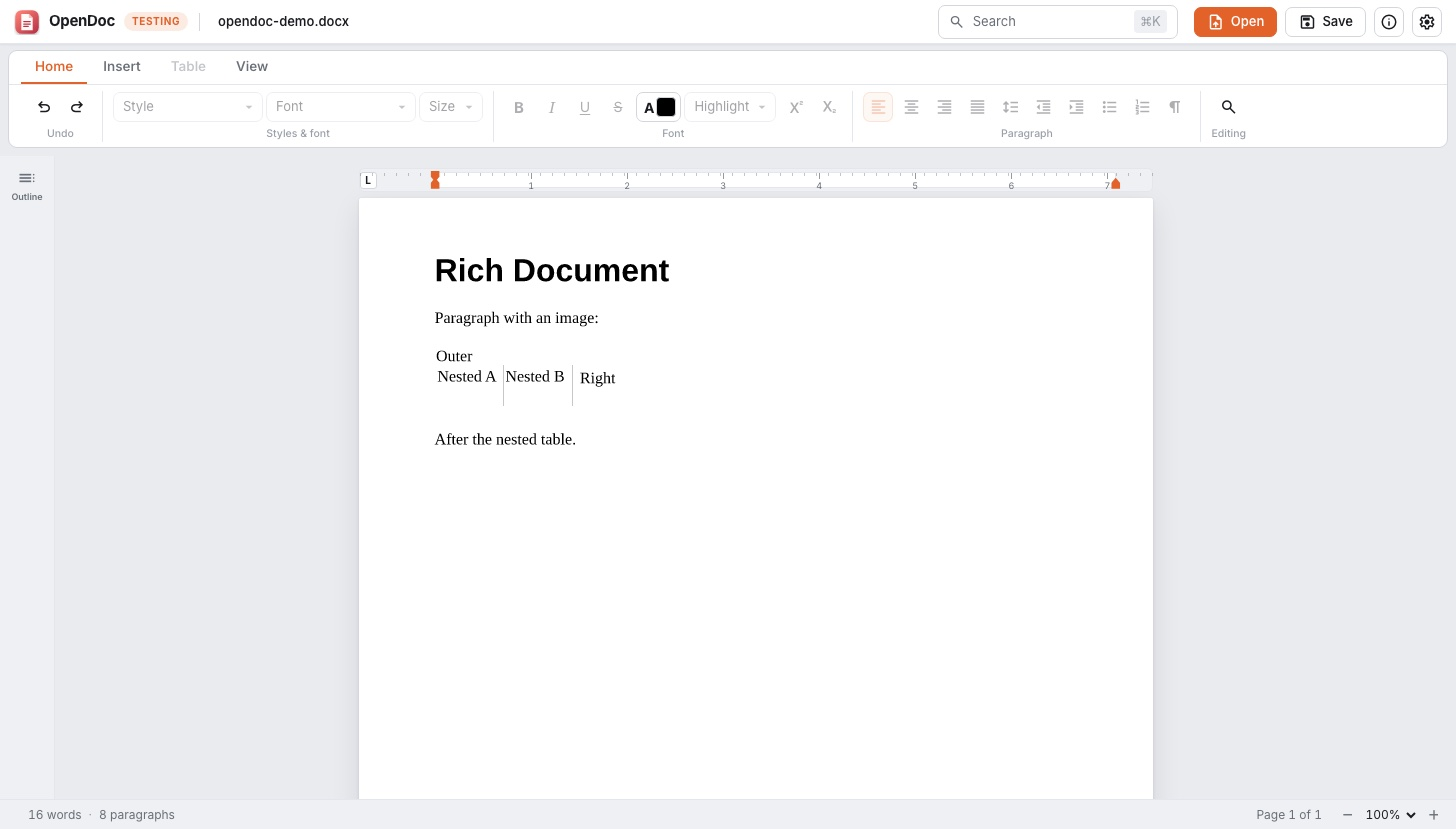
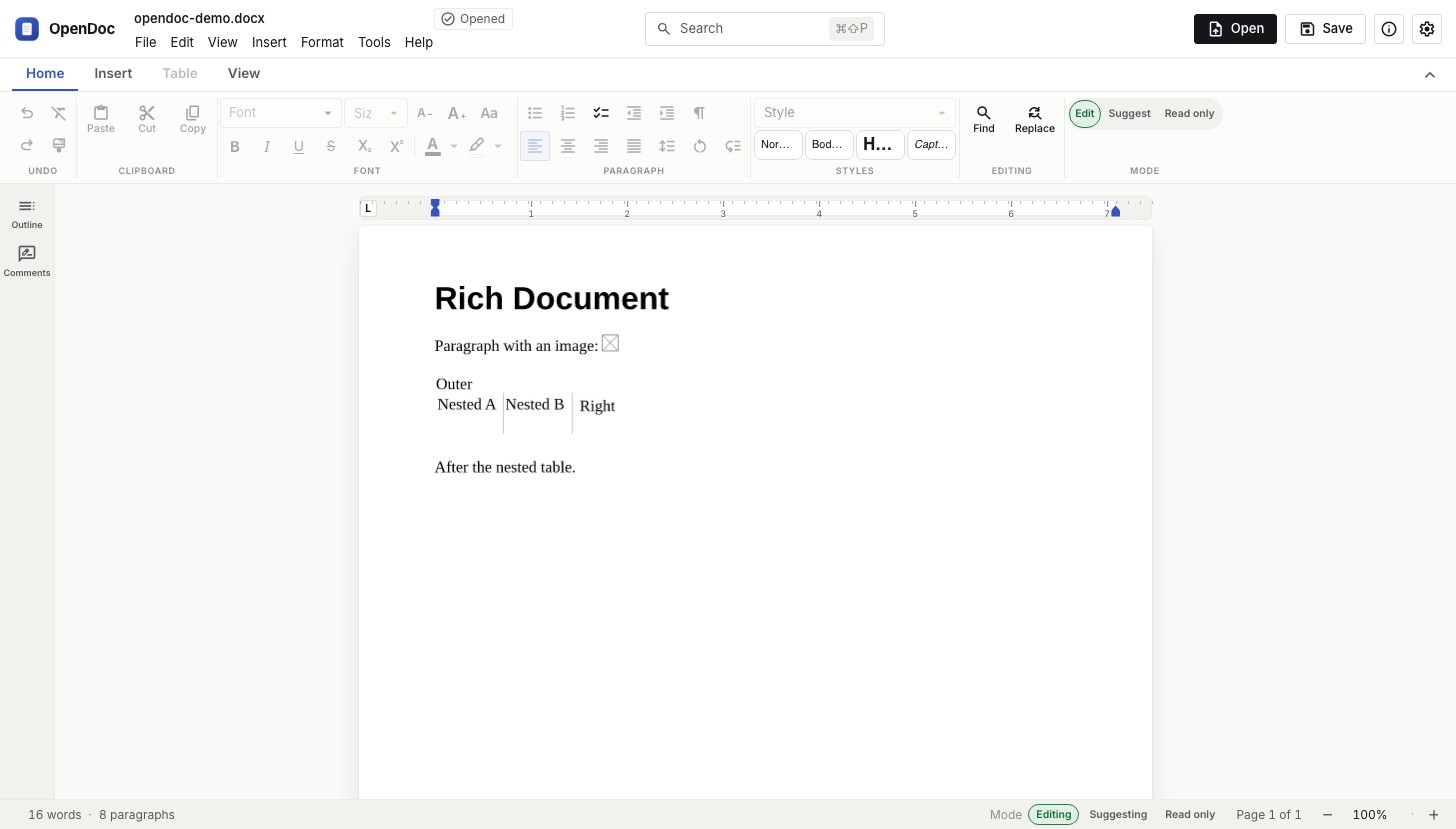
docs: refresh editor screenshot and brand badge for the redesign
Regenerate docs/assets/editor.jpg from the restyled editor (warm Studio
canvas, blue accent, flat grid ribbon, blue mark) and switch the README
demo badge to the new #3355C4 brand blue.

diff --git a/README.md b/README.md
@@ -1,6 +1,6 @@
 # OpenDoc
 
-[![Live demo](https://img.shields.io/badge/demo-opendoc.casualoffice.org-e2622a.svg)](https://opendoc.casualoffice.org)
+[![Live demo](https://img.shields.io/badge/demo-opendoc.casualoffice.org-3355c4.svg)](https://opendoc.casualoffice.org)
 [![Status: Pre-release](https://img.shields.io/badge/status-pre--release-orange.svg)](docs/06-ROADMAP-AND-DELIVERY.md)
 [![Rust: 1.88+](https://img.shields.io/badge/rust-1.88%2B-black.svg?logo=rust)](rust-toolchain.toml)
 [![License: Apache-2.0](https://img.shields.io/badge/license-Apache--2.0-blue.svg)](LICENSE)
